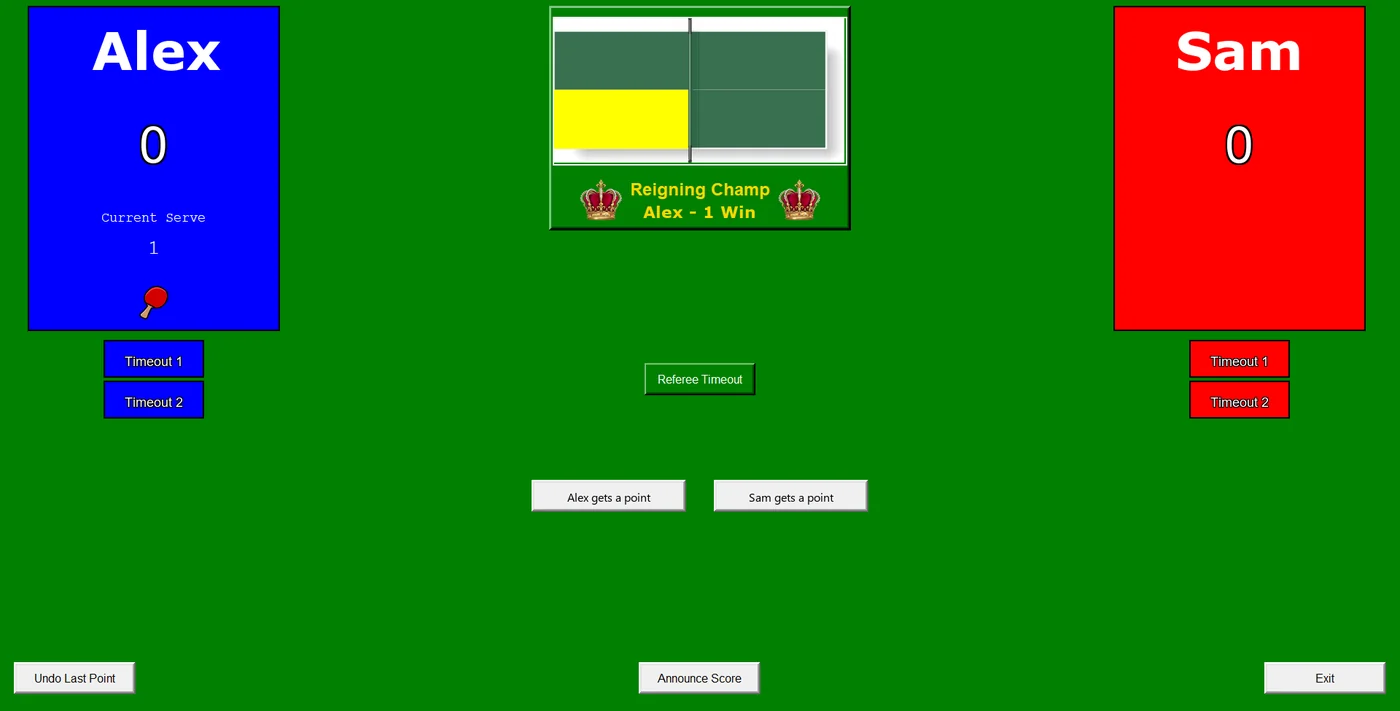
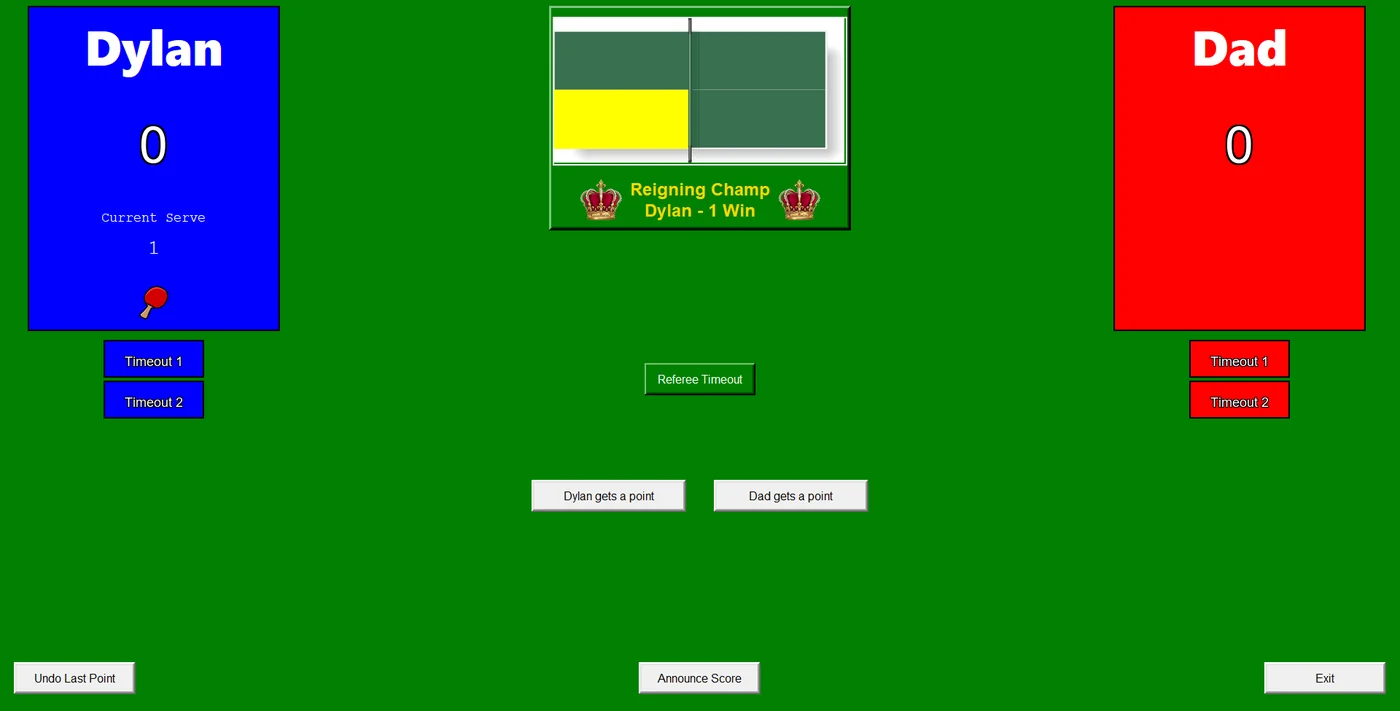
PingPong: original scoreboard names and the daily stats report

diff --git a/index.html b/index.html
@@ -623,8 +623,9 @@
           House and official ITTF rules, can undo any point, and saves every game to Google Sheets
           automatically.</p>
         <div class="shots">
-          <figure class="shot"><a href="assets/shots/pp-scoreboard.webp" target="_blank" rel="noopener"><img src="assets/shots/pp-scoreboard.webp" alt="PingPong Scorekeeper scoreboard with each player's score, the current server, timeouts, a table graphic showing the serving side, and the reigning champion" loading="lazy" width="1400" height="711"></a><figcaption>Live scoreboard (player names changed)</figcaption></figure>
+          <figure class="shot"><a href="assets/shots/pp-scoreboard.webp" target="_blank" rel="noopener"><img src="assets/shots/pp-scoreboard.webp" alt="PingPong Scorekeeper scoreboard with each player's score, the current server, timeouts, a table graphic showing the serving side, and the reigning champion" loading="lazy" width="1400" height="711"></a><figcaption>Live scoreboard</figcaption></figure>
           <figure class="shot"><a href="assets/shots/pp-setup.webp" target="_blank" rel="noopener"><img src="assets/shots/pp-setup.webp" alt="Game setup screen with player name pickers, first server, House or ITTF rules, and Stats, Settings and What's New buttons" loading="lazy" width="680" height="500"></a><figcaption>Game setup: House or ITTF rules</figcaption></figure>
+          <figure class="shot"><a href="assets/shots/pp-stats.webp" target="_blank" rel="noopener"><img src="assets/shots/pp-stats.webp" alt="Ping Pong daily report with games summary, new records and milestones, and current win and loss streaks, with a menu of stats views" loading="lazy" width="1400" height="766"></a><figcaption>Daily stats report: records, milestones, streaks</figcaption></figure>
         </div>
         <div class="tag-list">
           <span class="tag">Python</span>
